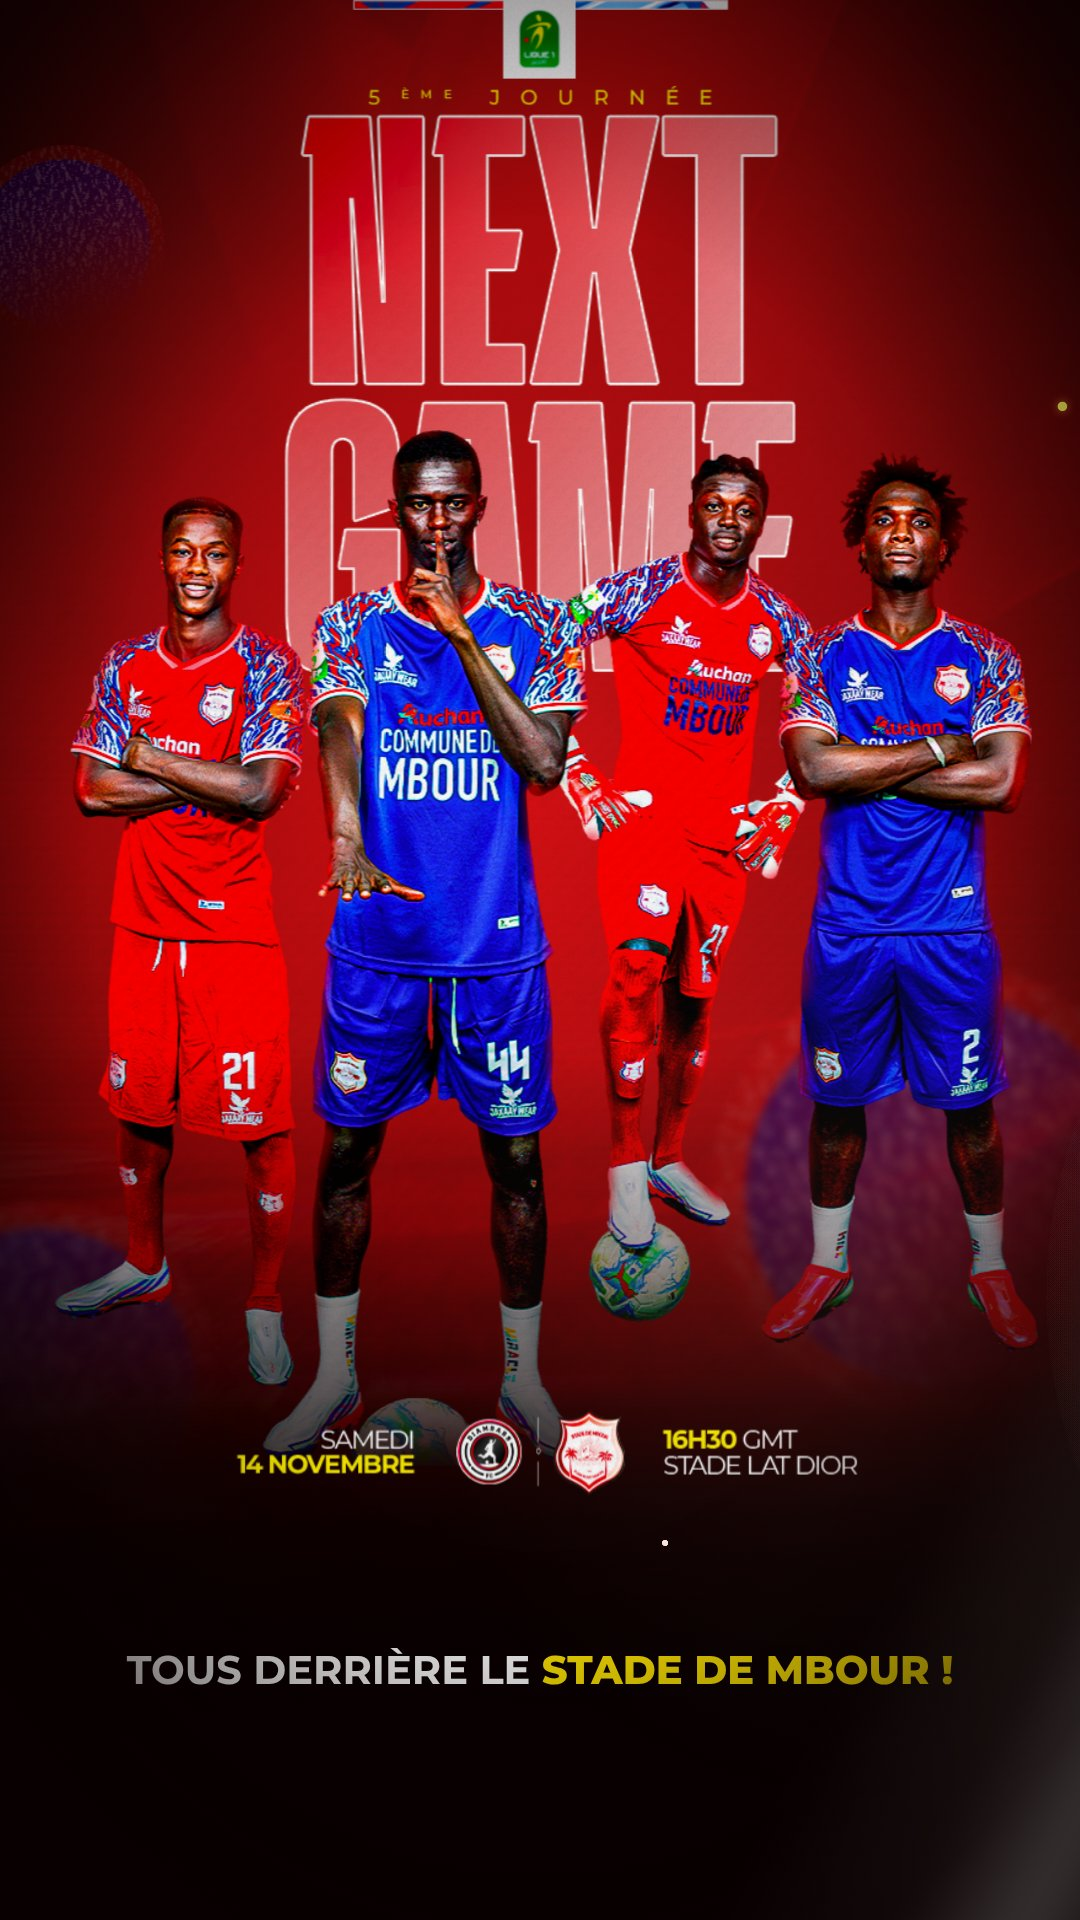
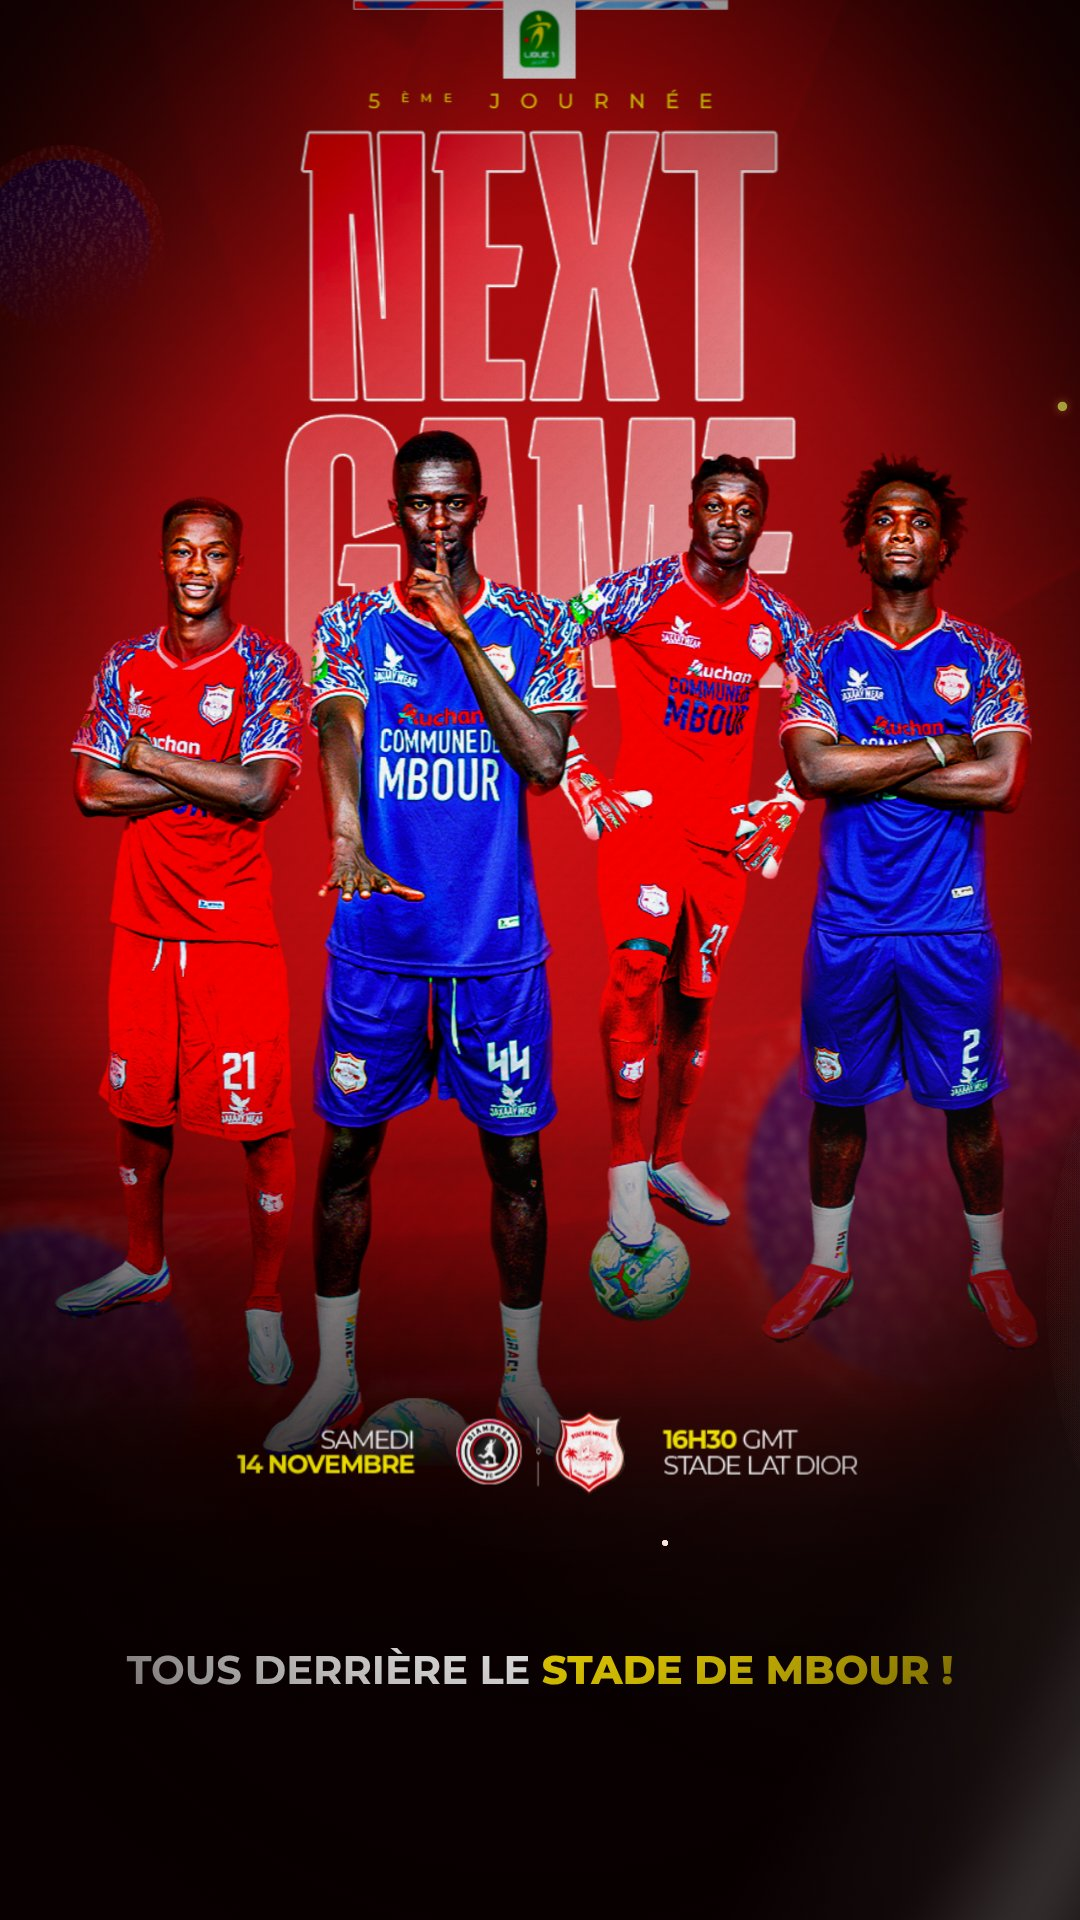
Plan 8-11 s : titre NEXT GAME remonté et agrandi, final rétabli
Claude-Session: https://claude.ai/code/session_01CJgvnF5VURsKT4vojm1dRz

diff --git a/src/index.html b/src/index.html
@@ -46,12 +46,12 @@ body{font-family:MS,sans-serif;color:#fff;-webkit-font-smoothing:antialiased}
 /* team : everything in poster coordinates (1080 x 1320) */
 #team{position:absolute;left:0;top:0;width:1080px;height:1320px;transform-origin:0 0}
 #team img{position:absolute;display:block}
-#ngImg{left:332px;top:93px;width:416px;height:456px}
+#ngImg{left:332px;top:106px;width:416px;height:456px}
 #legShade{position:absolute;left:-400px;top:860px;width:1880px;height:900px;background:linear-gradient(180deg, transparent 0%, rgba(14,2,3,.5) 22%, rgba(10,1,2,.85) 42%, #0a0102 62%)}
 #pSph{left:71px;top:117px;width:164px;height:164px}
 #pBand{left:388px;top:0;width:305px;height:8px}
 #pL1{left:510px;top:0;width:59px;height:64px}
-#p5{left:400px;top:69px;width:280px;height:17px}
+#p5{left:400px;top:72px;width:280px;height:17px}
 #pDate{left:293px;top:1164px;width:145px;height:36px}
 #pClubs{left:472px;top:1147px;width:137px;height:70px}
 #pTime{left:640px;top:1164px;width:159px;height:36px}
@@ -266,7 +266,7 @@ tl.to('#flash',{opacity:.5,duration:.04},7.2).to('#flash',{opacity:0,duration:.4
 tl.to('#team',{...GROUP,duration:.6,ease:'expo.inOut'},8.0);
 tl.to('#team',{...shot(545,760,1.16,1180),duration:2.15,ease:'none'},8.6);
 tl.set('#ngImg',{autoAlpha:1},8.3);
-tl.fromTo('#ngImg',{clipPath:'inset(100% 0 0 0)',y:60},{clipPath:'inset(0% 0 0 0)',y:0,duration:.55,ease:E.in},8.3);
+tl.fromTo('#ngImg',{clipPath:'inset(100% 0 0 0)',y:-40,scale:1.1},{clipPath:'inset(0% 0 0 0)',y:-100,scale:1.1,duration:.55,ease:E.in},8.3);
 tl.to('#flashR',{opacity:.5,duration:.05},8.45).to('#flashR',{opacity:0,duration:.4},8.5);
 tl.to('#ngImg',{autoAlpha:0,filter:'blur(12px)',duration:.3,ease:E.out},10.72);
 tl.to('#team',{...VSHOT,filter:'blur(4px) brightness(.5)',duration:.55,ease:E.io},10.75);
@@ -335,7 +335,7 @@ tl.to('#dim',{opacity:0,duration:.3},24.9);
 tl.set('#sphA',{autoAlpha:0},24.98);
 tl.set('#players',{autoAlpha:1},24.98);
 tl.set('#team',{filter:'blur(0px) brightness(1)'},24.98);
-tl.set('#ngImg',{autoAlpha:1,clipPath:'inset(0% 0 0 0)',filter:'blur(0px)'},24.98);
+tl.set('#ngImg',{autoAlpha:1,clipPath:'inset(0% 0 0 0)',filter:'blur(0px)',scale:1},24.98);
 tl.to('#flash',{opacity:.9,duration:.04},25.0).to('#flash',{opacity:0,duration:.6},25.04);
 tl.fromTo('#world',{scale:1.08},{scale:1.0,duration:.7,ease:E.in},25.0);
 tl.to(FX,{embers:1,smoke:.6,duration:.4},25);
